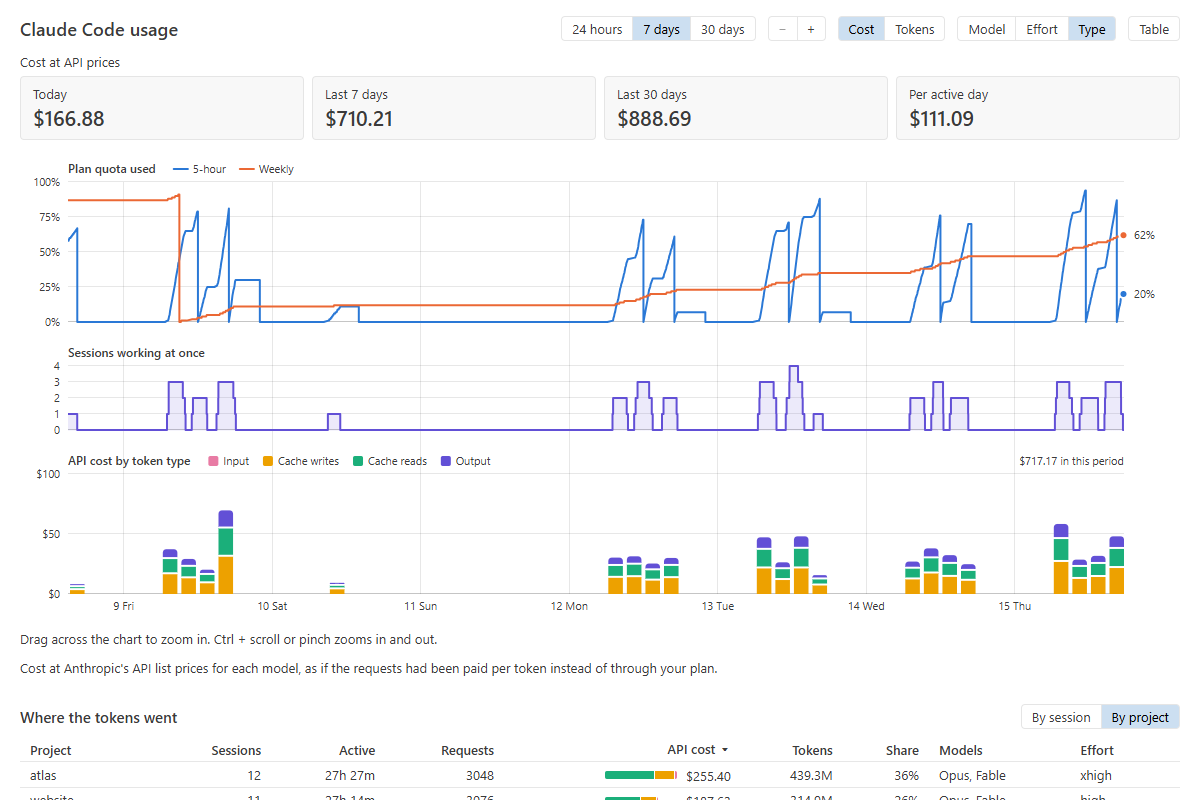
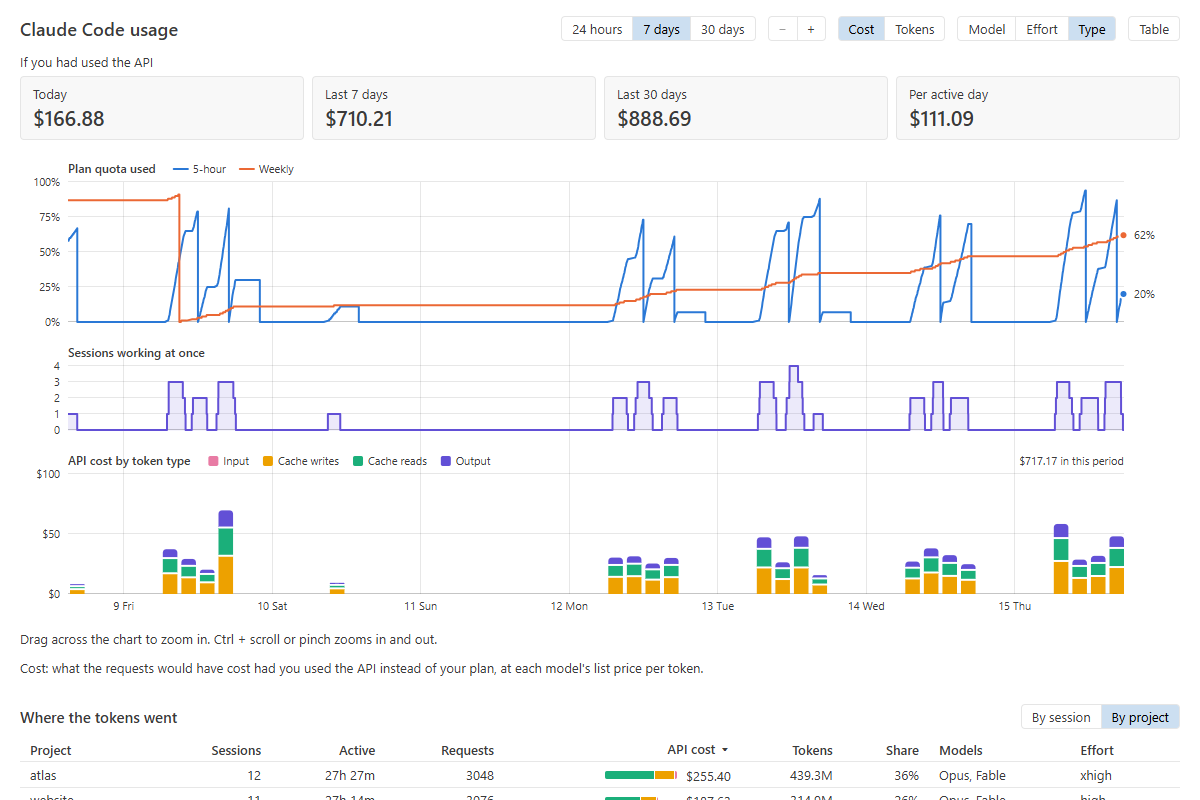
fix: scroll the panel in one place and say what the API cost means (#15)

Changed region(s): [[0.0308, 0.8125, 0.5858, 0.8438], [0.0, 0.0625, 0.1233, 0.0938]]

diff --git a/src/extension/texts.ts b/src/extension/texts.ts
@@ -42,7 +42,7 @@ export function panelStrings(t: Translate): PanelStrings {
     measures: { cost: t('Cost'), tokens: t('Tokens') },
     measureNotes: {
       cost: t(
-        "Cost at Anthropic's API list prices for each model, as if the requests had been paid per token instead of through your plan.",
+        "Cost: what the requests would have cost had you used the API instead of your plan, at each model's list price per token.",
       ),
       tokens: t(
         'Token counts as Claude Code logged them. Most are cache reads, which cost a tenth of input or less.',
@@ -61,7 +61,7 @@ export function panelStrings(t: Translate): PanelStrings {
       haiku: 'Haiku',
       other: t('Other models'),
     },
-    spendTitle: t('Cost at API prices'),
+    spendTitle: t('If you had used the API'),
     spendToday: t('Today'),
     spendLast7Days: t('Last 7 days'),
     spendLast30Days: t('Last 30 days'),

diff --git a/test/visual/timeline.spec.ts b/test/visual/timeline.spec.ts
@@ -439,3 +439,18 @@ test.describe('cost and token types', () => {
     });
   }
 });
+
+test('scrolls in one place, never the page around the panel', async ({ page }) => {
+  await page.setViewportSize({ width: 1100, height: 500 });
+  const panel = await openPanel(page, 'dark');
+  await panel.init(sampleTimeline('7d'));
+  await expect(page.getByRole('region', { name: strings.breakdownTitle })).toBeAttached();
+  const overflow = await page.evaluate(() => ({
+    page: document.documentElement.scrollHeight - document.documentElement.clientHeight,
+    app:
+      document.getElementById('app')!.scrollHeight - document.getElementById('app')!.clientHeight,
+  }));
+  expect(overflow.page).toBeLessThanOrEqual(0);
+  expect(overflow.app).toBeGreaterThan(0);
+  expect(panel.problems).toEqual([]);
+});

diff --git a/src/webview/chart/timelineChart.ts b/src/webview/chart/timelineChart.ts
@@ -615,7 +615,10 @@ export class TimelineChart {
     // Within about a day the hour says enough; the panel shows the date of a zoomed window.
     const day = data.to - data.from > 26 * 3_600_000;
     const start = day ? this.formats.dayClock(bucket.start) : this.formats.clock(bucket.start);
-    return `${start}–${this.formats.clock(end)}`;
+    // A column that ends on another day names that day too.
+    const nextDay = new Date(end).toDateString() !== new Date(bucket.start).toDateString();
+    const finish = day && nextDay ? this.formats.dayClock(end) : this.formats.clock(end);
+    return `${start} – ${finish}`;
   }
 
   private describe(index: number): string[] {

diff --git a/src/webview/styles/panel.css b/src/webview/styles/panel.css
@@ -66,6 +66,9 @@ body {
 }
 
 #app {
+  /* The only scroller: absolutely placed text for screen readers stays inside it rather than
+     stretching the page into a second scrollbar. */
+  position: relative;
   height: 100%;
   overflow: auto;
 }

diff --git a/CHANGELOG.md b/CHANGELOG.md
@@ -17,7 +17,7 @@ and this project adheres to [Semantic Versioning](https://semver.org/spec/v2.0.0
   prices, with cache reads and writes, fast mode, US-only inference and web searches) or
   **Tokens**, split by **Model**, **Effort** or **Type** (input, cache writes, cache reads,
   output).
-- **Cost at API prices**: what today, the last 7 days, the last 30 days and an average active day
+- **If you had used the API**: what today, the last 7 days, the last 30 days and an average active day
   would have cost on the API.
 - Below the timeline, **Where the tokens went** lists the sessions or projects of the period shown:
   when each session started, how long it worked, its requests, API cost, tokens, share, models

diff --git a/README.md b/README.md
@@ -54,7 +54,7 @@ down to a minute.
 
 ![One working day zoomed in: the 5-hour quota rises during each block of work and drops when the window resets, and the tooltip lists the quota, sessions, cost by model, tokens and requests of a quarter of an hour](docs/images/zoom-dark.png)
 
-### Cost at API prices
+### If you had used the API
 
 Above the timeline, what Claude Code's requests would have cost had you paid per token instead
 of through your plan: today, the last 7 days, the last 30 days and per active day.
